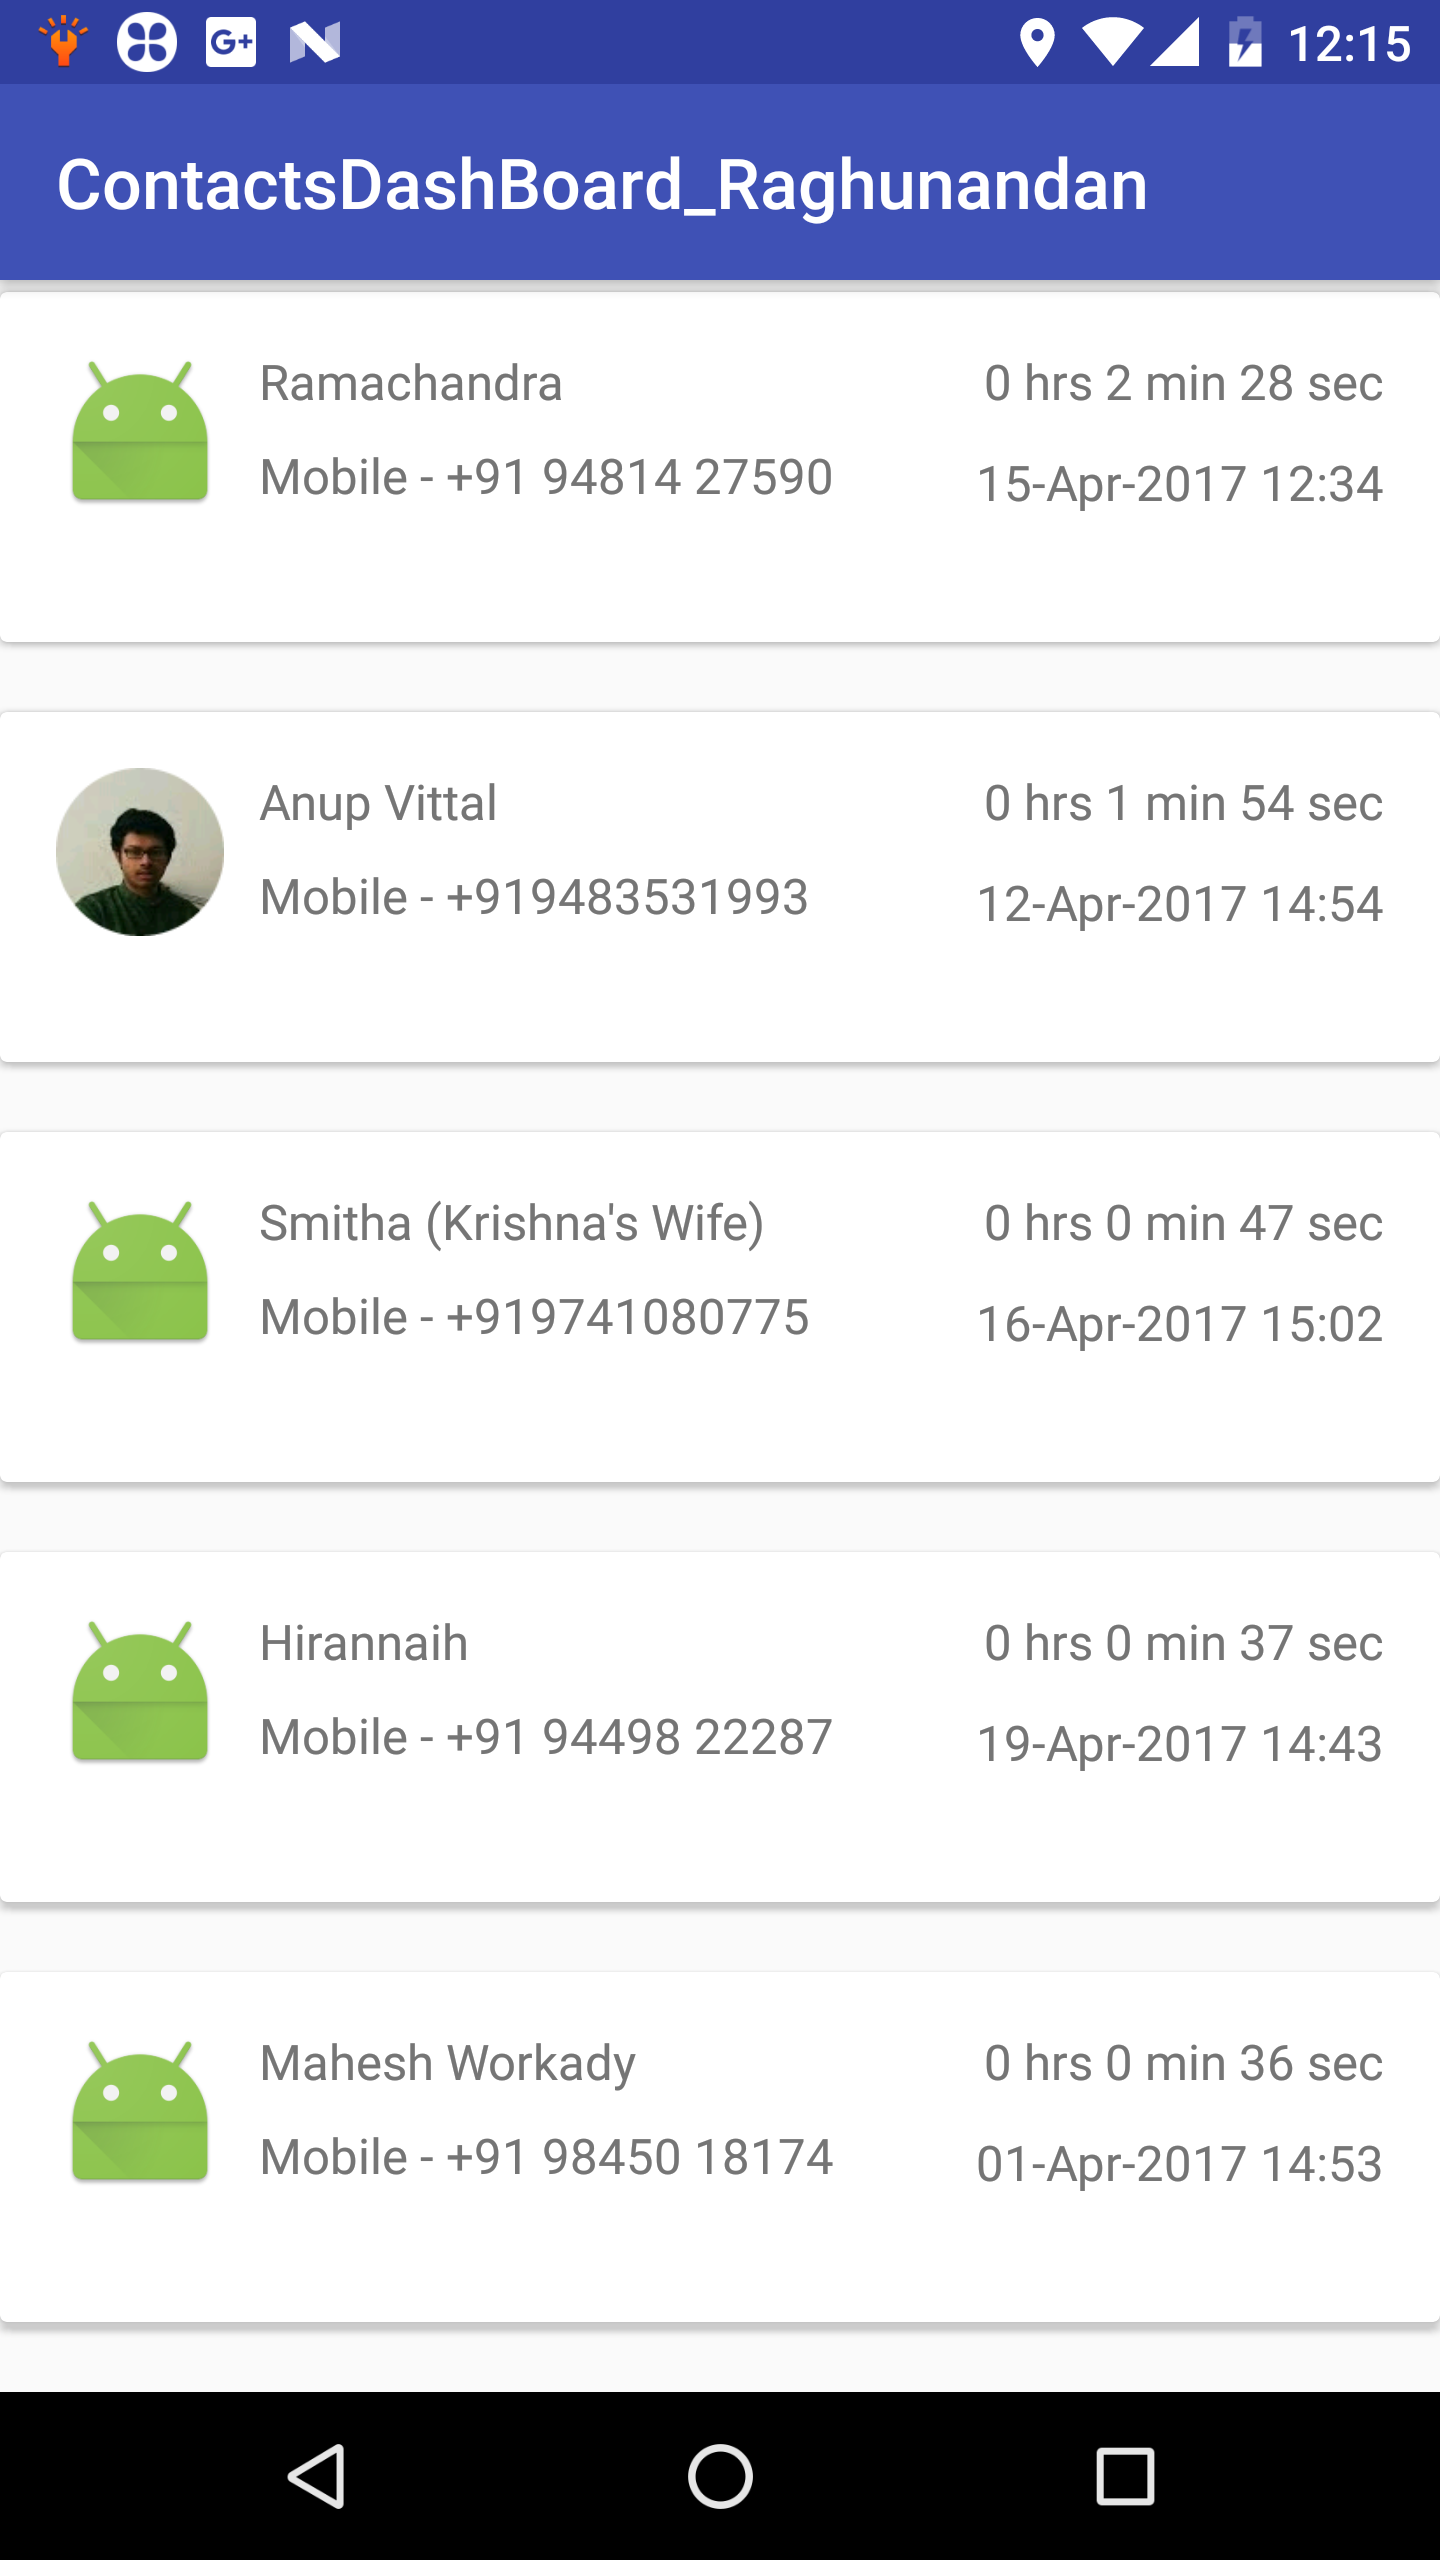
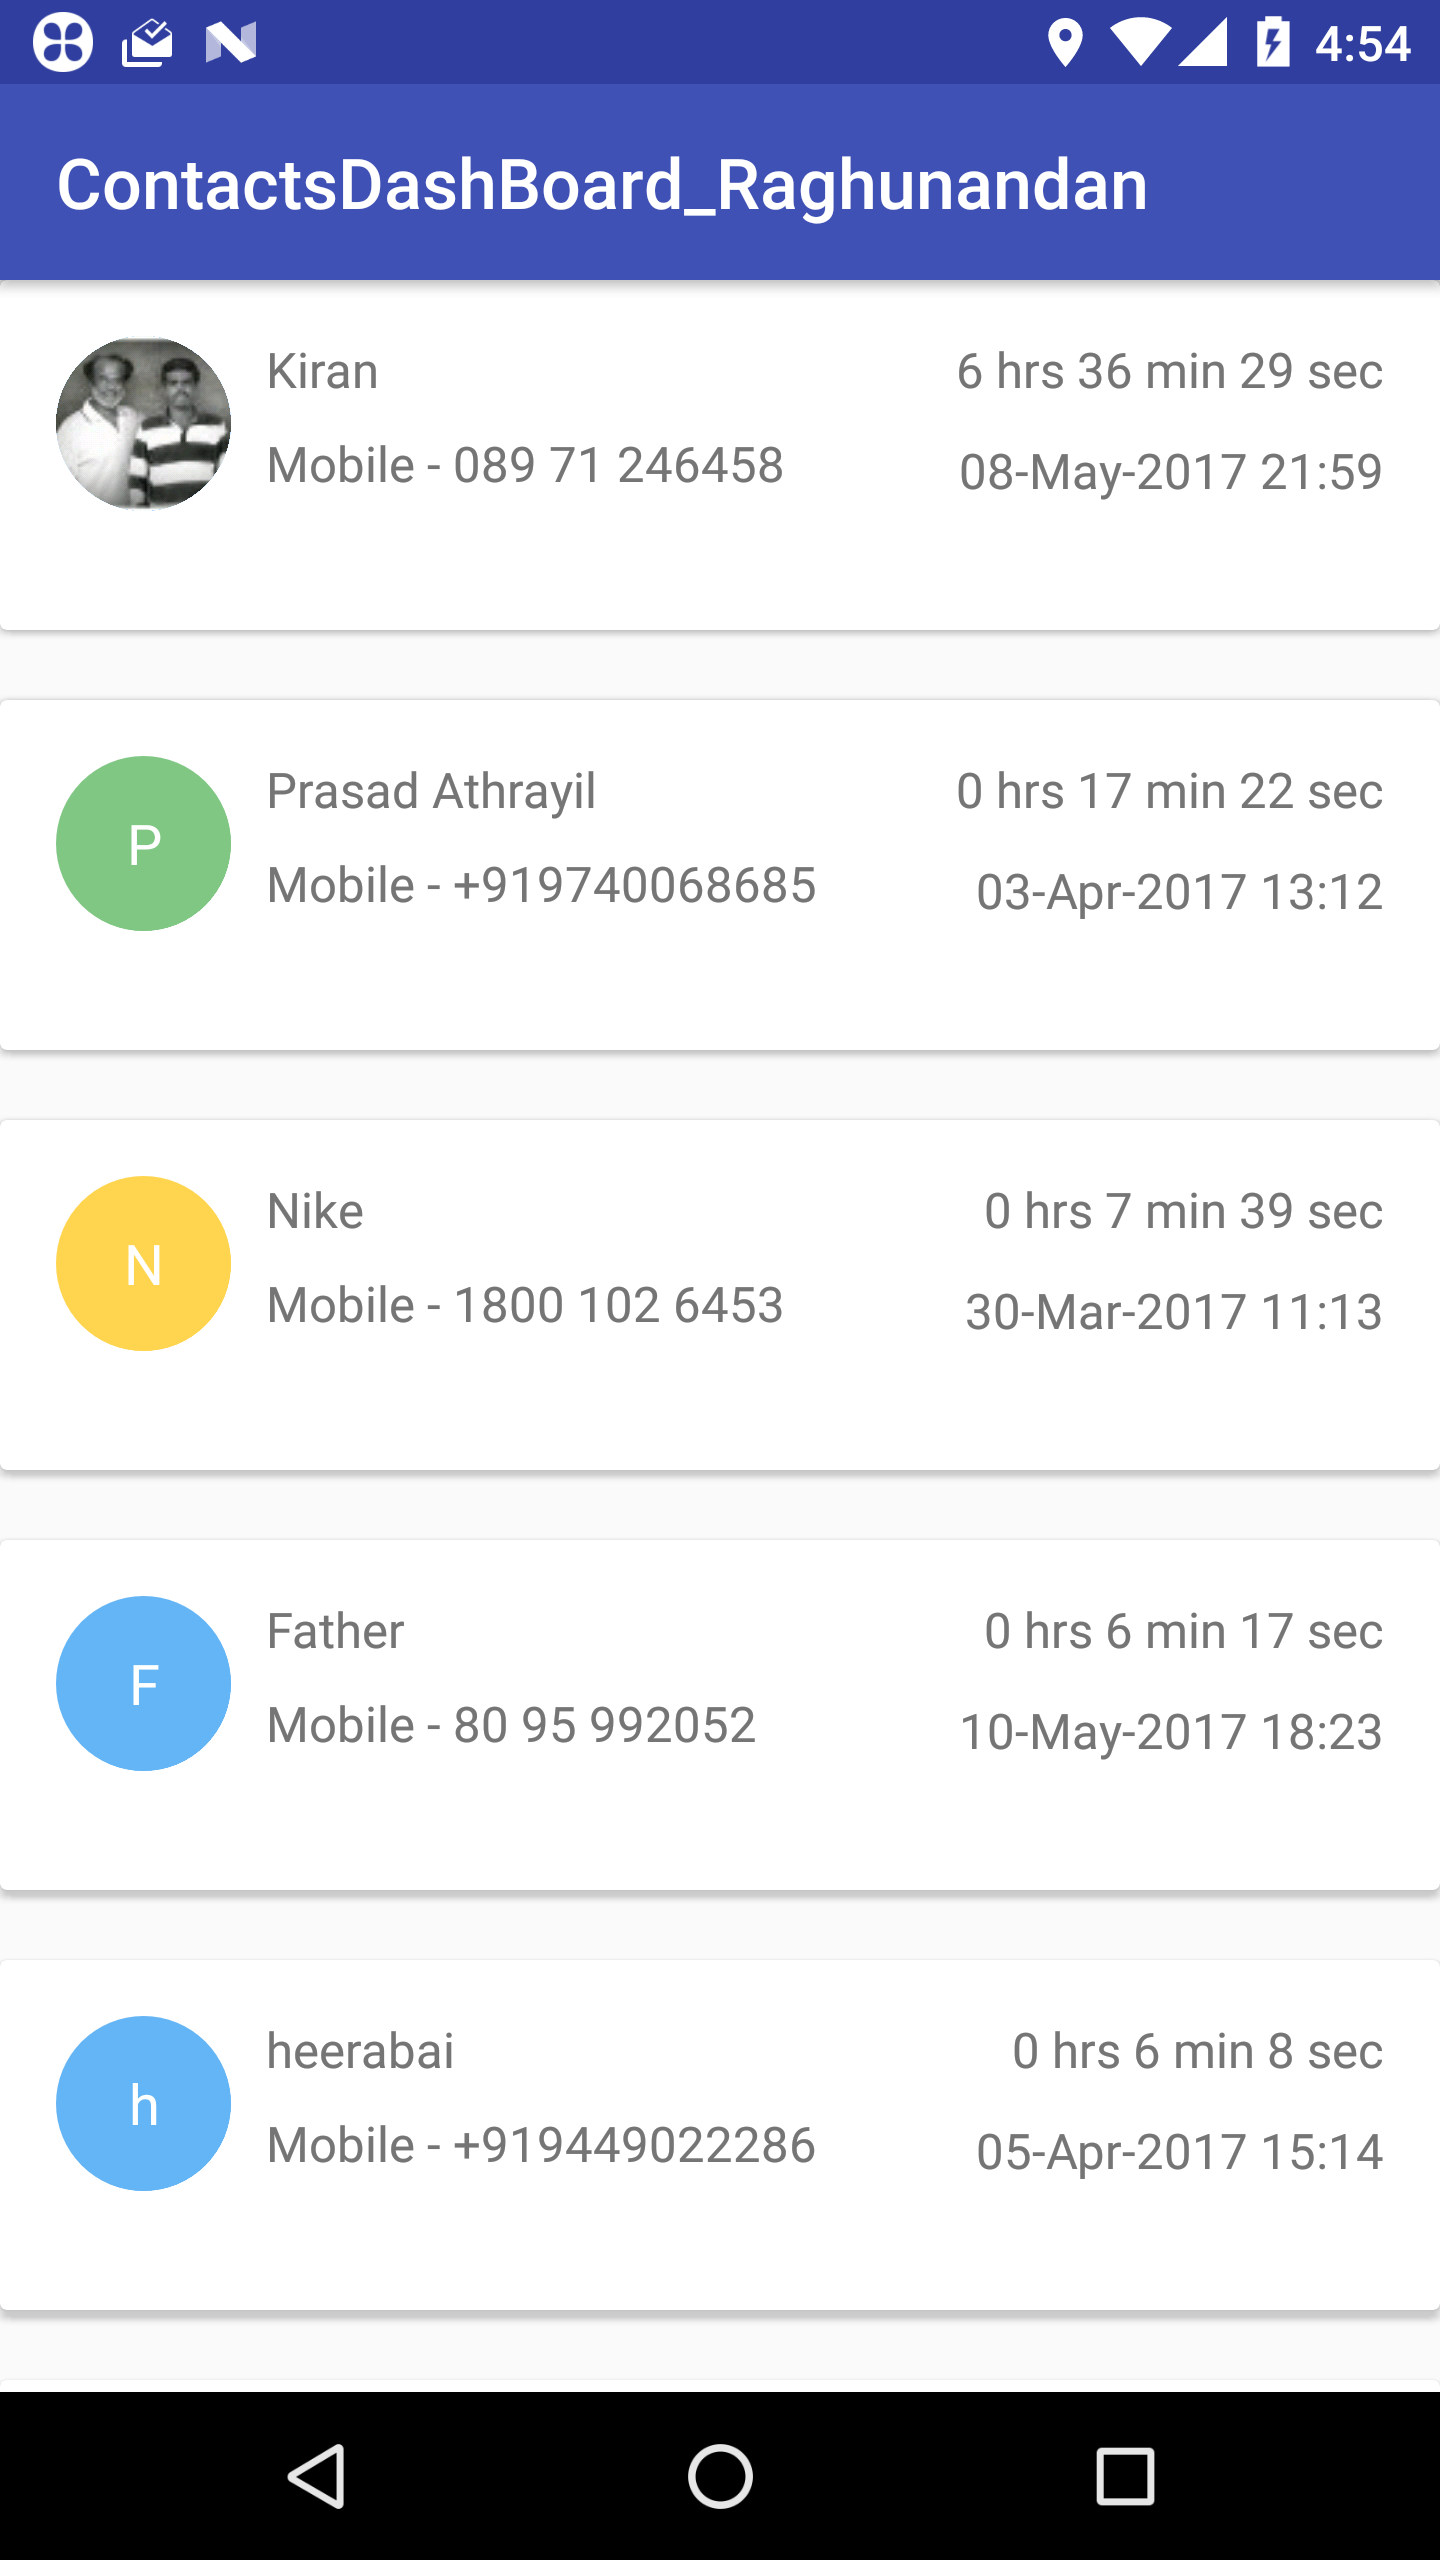
Add text initial to the image if there is no photo available

diff --git a/ContactsDashBoard_Raghunandan/app/src/main/java/com/example/raghu/contactsdashboard_raghunandan/AvatarImageView.java b/ContactsDashBoard_Raghunandan/app/src/main/java/com/example/raghu/contactsdashboard_raghunandan/AvatarImageView.java
@@ -1,0 +1,253 @@
+package com.example.raghu.contactsdashboard_raghunandan;
+
+import android.content.Context;
+import android.content.res.TypedArray;
+import android.graphics.Canvas;
+import android.graphics.Color;
+import android.graphics.ColorFilter;
+import android.graphics.Paint;
+import android.graphics.Path;
+import android.graphics.PixelFormat;
+import android.graphics.RectF;
+import android.graphics.drawable.Drawable;
+import android.os.Build;
+import android.support.annotation.NonNull;
+import android.support.v7.widget.AppCompatImageView;
+import android.text.TextPaint;
+import android.text.TextUtils;
+import android.util.AttributeSet;
+
+import com.bumptech.glide.Glide;
+
+/**
+ * Created by raghu on 11/5/17.
+ */
+
+public class AvatarImageView extends AppCompatImageView {
+
+    /*
+    * Path of them image to be clipped (to be shown)
+    * */
+    Path clipPath;
+
+    /*
+    * Place holder drawable (with background color and initials)
+    * */
+    Drawable drawable;
+
+    /*
+    * Contains initials of the member
+    * */
+    String text;
+
+    /*
+    * Used to set size and color of the member initials
+    * */
+    TextPaint textPaint;
+
+    /*
+    * Used as background of the initials with user specific color
+    * */
+    Paint paint;
+
+    /*
+    * Shape to be drawn
+    * */
+    int shape;
+
+    /*
+    * Constants to define shape
+    *
+    * /
+    protected static final int CIRCLE = 0;
+    protected static final int RECTANGLE = 1;
+
+    /*
+    * User whose avatar should be displayed
+    * */
+    Contacts user;
+
+    /*
+    * Image width and height (both are same and constant, defined in dimens.xml
+    * We cache them in this field
+    * */
+    private int imageSize;
+
+    /*
+    * We will set it as 2dp
+    * */
+    int cornerRadius;
+
+    /*
+    * Bounds of the canvas in float
+    * Used to set bounds of member initial and background
+    * */
+    RectF rectF;
+
+    public AvatarImageView(Context context) {
+        super(context);
+    }
+
+    public AvatarImageView(Context context, AttributeSet attrs) {
+        super(context, attrs);
+
+        getAttributes(attrs);
+        init();
+    }
+
+    public AvatarImageView(Context context, AttributeSet attrs, int defStyleAttr) {
+        super(context, attrs, defStyleAttr);
+
+        getAttributes(attrs);
+        init();
+    }
+
+    private void getAttributes(AttributeSet attrs) {
+        TypedArray a = getContext().getTheme().obtainStyledAttributes(
+                attrs,
+                R.styleable.AvatarView,
+                0, 0);
+
+    }
+
+    /*
+    * Initialize fields
+    * */
+    protected void init() {
+
+        /*
+        * Below Jelly Bean, clipPath on canvas would not work because lack of hardware acceleration
+        * support. Hence, we should explicitly say to use software acceleration.
+        * */
+        if (Build.VERSION.SDK_INT < Build.VERSION_CODES.JELLY_BEAN_MR2
+                && Build.VERSION.SDK_INT >= Build.VERSION_CODES.HONEYCOMB) {
+            setLayerType(LAYER_TYPE_SOFTWARE, null);
+        }
+
+        rectF = new RectF();
+        clipPath = new Path();
+
+        imageSize = getResources().getDimensionPixelSize(R.dimen.avatar_size);
+        cornerRadius = 10;
+
+        paint = new Paint(Paint.ANTI_ALIAS_FLAG);
+        textPaint = new TextPaint(Paint.ANTI_ALIAS_FLAG);
+        textPaint.setTextSize(16f * getResources().getDisplayMetrics().scaledDensity);
+        textPaint.setColor(Color.WHITE);
+    }
+
+    /*
+    * Get User object and set values based on the user
+    * This is the only exposed method to the developer
+    * */
+    public void setUser(Contacts user,int color) {
+        this.user = user;
+       ;
+        setValues(color);
+    }
+
+    /*
+    * Set user specific fields in here
+    * */
+    private void setValues(int color) {
+
+        /*
+        * user specific color for initial background
+        * */
+        paint.setColor(color);
+
+        /*
+        * Initials of member
+        * */
+        text = Character.toString(user.getName().charAt(0));
+
+        setDrawable();
+
+        if (!TextUtils.isEmpty(user.getPhoto())) {
+            Glide.with(getContext())
+                    .load(user.getPhoto())
+                    .placeholder(drawable)
+                    .centerCrop()
+                    .override(imageSize, imageSize)
+                    .into(this);
+        } else {
+            setImageDrawable(drawable);
+            invalidate();
+        }
+    }
+
+
+    /*
+    * Create placeholder drawable
+    * */
+    private void setDrawable() {
+        drawable = new Drawable() {
+            @Override
+            public void draw(@NonNull Canvas canvas) {
+
+                int centerX = Math.round(canvas.getWidth() * 0.5f);
+                int centerY = Math.round(canvas.getHeight() * 0.5f);
+
+        /*
+        * To draw text
+        * */
+                if (text != null) {
+                    float textWidth = textPaint.measureText(text) * 0.5f;
+                    float textBaseLineHeight = textPaint.getFontMetrics().ascent * -0.4f;
+
+            /*
+            * Draw the background color before drawing initials text
+            * */
+                        canvas.drawCircle(centerX,
+                                centerY,
+                                Math.max(canvas.getHeight() / 2, textWidth / 2),
+                                paint);
+
+
+            /*
+            * Draw the text above the background color
+            * */
+                    canvas.drawText(text, centerX - textWidth, centerY + textBaseLineHeight, textPaint);
+                }
+            }
+
+            @Override
+            public void setAlpha(int alpha) {
+
+            }
+
+            @Override
+            public void setColorFilter(ColorFilter colorFilter) {
+
+            }
+
+            @Override
+            public int getOpacity() {
+                return PixelFormat.UNKNOWN;
+            }
+        };
+    }
+
+    /*
+    * Set the canvas bounds here
+    * */
+    @Override
+    protected void onMeasure(int widthMeasureSpec, int heightMeasureSpec) {
+        super.onMeasure(widthMeasureSpec, heightMeasureSpec);
+        int screenWidth = MeasureSpec.getSize(widthMeasureSpec);
+        int screenHeight = MeasureSpec.getSize(heightMeasureSpec);
+        rectF.set(0, 0, screenWidth, screenHeight);
+    }
+
+    @Override
+    protected void onDraw(Canvas canvas) {
+
+
+        canvas.drawCircle(rectF.centerX(), rectF.centerY(), (rectF.height() / 2), paint);
+
+        clipPath.addCircle(rectF.centerX(), rectF.centerY(), (rectF.height() / 2), Path.Direction.CW);
+
+        canvas.clipPath(clipPath);
+        super.onDraw(canvas);
+    }
+}

diff --git a/ContactsDashBoard_Raghunandan/app/src/main/java/com/example/raghu/contactsdashboard_raghunandan/ContactsCallLogAdapter.java b/ContactsDashBoard_Raghunandan/app/src/main/java/com/example/raghu/contactsdashboard_raghunandan/ContactsCallLogAdapter.java
@@ -10,10 +10,7 @@ import android.util.Log;
 import android.view.LayoutInflater;
 import android.view.View;
 import android.view.ViewGroup;
-import android.widget.ImageView;
 import android.widget.TextView;
-
-import com.bumptech.glide.Glide;
 
 import java.util.ArrayList;
 import java.util.List;
@@ -30,7 +27,7 @@ public class ContactsCallLogAdapter extends RecyclerView.Adapter<ContactsCallLog
 
     public class MyViewHolder extends RecyclerView.ViewHolder {
         public TextView name, number, email,total_duration,date;
-        public ImageView photo;
+        public AvatarImageView photo;
 
         public MyViewHolder(View view) {
             super(view);
@@ -39,7 +36,7 @@ public class ContactsCallLogAdapter extends RecyclerView.Adapter<ContactsCallLog
             email = (TextView) view.findViewById(R.id.user_email);
             total_duration = (TextView) view.findViewById(R.id.total_duration);
             date = (TextView) view.findViewById(R.id.date);
-            photo = (ImageView) view.findViewById(R.id.user_photo);
+            photo = (AvatarImageView) view.findViewById(R.id.user_photo);
         }
     }
 
@@ -69,7 +66,12 @@ public class ContactsCallLogAdapter extends RecyclerView.Adapter<ContactsCallLog
             holder.email.setVisibility(View.GONE);
         holder.total_duration.setText(Utils.timeConversion(contacts.getDuration()));
         holder.date.setText(contacts.getCallDate());
-        if(Utils.checkNotEmpty(contacts.getPhoto()))
+
+        ColorGenerator generator = ColorGenerator.MATERIAL; // or use DEFAULT
+      // generate random color
+        int color = generator.getColor(contacts.getName());
+        holder.photo.setUser(contacts,color);
+    /*    if(Utils.checkNotEmpty(contacts.getPhoto()))
         {
             Glide.with(mContext)
                     .load(contacts.getPhoto())
@@ -81,9 +83,13 @@ public class ContactsCallLogAdapter extends RecyclerView.Adapter<ContactsCallLog
         {
             // make sure Glide doesn't load anything into this view until told otherwise
             Glide.clear(holder.photo);
-            // remove the placeholder (optional); read comments below
-            //viewHolder.profilePic.setImageDrawable(null);
-        }
+            *//*TextDrawable drawable = TextDrawable.builder()
+                    .buildRoundRect(Character.toString(contacts.getName().charAt(0)), Color.RED,10);
+
+            holder.photo.setImageDrawable(drawable);*//*
+
+
+        }*/
 
 
     }

diff --git a/ContactsDashBoard_Raghunandan/app/src/main/java/com/example/raghu/contactsdashboard_raghunandan/ColorGenerator.java b/ContactsDashBoard_Raghunandan/app/src/main/java/com/example/raghu/contactsdashboard_raghunandan/ColorGenerator.java
@@ -1,0 +1,69 @@
+package com.example.raghu.contactsdashboard_raghunandan;
+
+import java.util.Arrays;
+import java.util.List;
+import java.util.Random;
+
+/**
+ * Created by raghu on 11/5/17.
+ */
+
+public class ColorGenerator {
+
+    public static ColorGenerator DEFAULT;
+
+    public static ColorGenerator MATERIAL;
+
+    static {
+        DEFAULT = create(Arrays.asList(
+                0xfff16364,
+                0xfff58559,
+                0xfff9a43e,
+                0xffe4c62e,
+                0xff67bf74,
+                0xff59a2be,
+                0xff2093cd,
+                0xffad62a7,
+                0xff805781
+        ));
+        MATERIAL = create(Arrays.asList(
+                0xffe57373,
+                0xfff06292,
+                0xffba68c8,
+                0xff9575cd,
+                0xff7986cb,
+                0xff64b5f6,
+                0xff4fc3f7,
+                0xff4dd0e1,
+                0xff4db6ac,
+                0xff81c784,
+                0xffaed581,
+                0xffff8a65,
+                0xffd4e157,
+                0xffffd54f,
+                0xffffb74d,
+                0xffa1887f,
+                0xff90a4ae
+        ));
+    }
+
+    private final List<Integer> mColors;
+    private final Random mRandom;
+
+    public static ColorGenerator create(List<Integer> colorList) {
+        return new ColorGenerator(colorList);
+    }
+
+    private ColorGenerator(List<Integer> colorList) {
+        mColors = colorList;
+        mRandom = new Random(System.currentTimeMillis());
+    }
+
+    public int getRandomColor() {
+        return mColors.get(mRandom.nextInt(mColors.size()));
+    }
+
+    public int getColor(Object key) {
+        return mColors.get(Math.abs(key.hashCode()) % mColors.size());
+    }
+}
